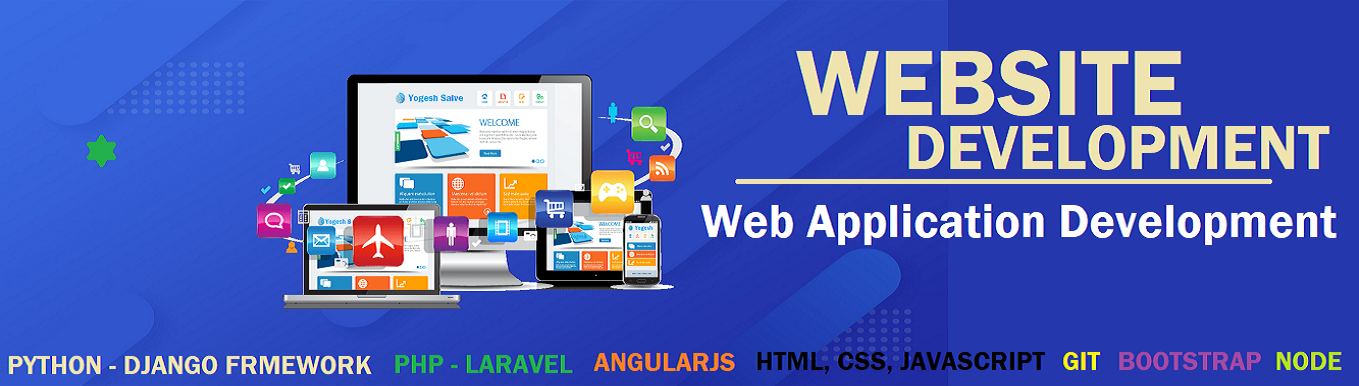
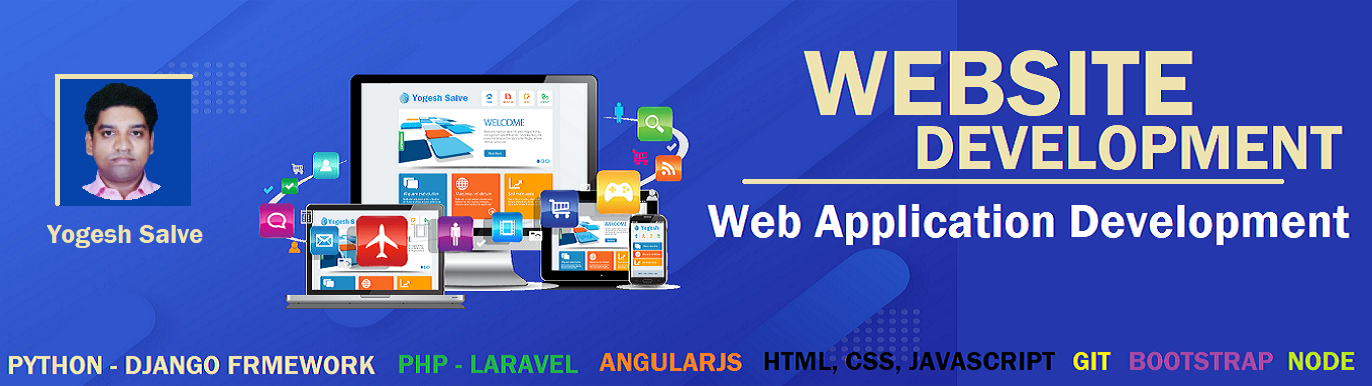
photo added

diff --git a/index.html b/index.html
@@ -52,22 +52,12 @@
   </div>
 </nav>
 
-<div class="bgimg">
-  
-   </div>
-   
-   <div style="background: color url('../img/2.png')"></div>
-
-
-
-<div class="container my-4" >
-    <h1 align="center">.</h1>
-</div>
+<div class="bgimg"></div>
 <div class="container">
 <div class="content">
 <section class="inner-container hero">
-<h1 align="center">
-Hello, my name is Yogesh. I am a Website Designer / Front End Developer living in
+<h1 align="center" style="color:white;">
+Hello, I am a Website Designer / Front End Developer living in
 Navi Mumbai, MH India.
 </h1>
 </section>
@@ -80,7 +70,7 @@ Navi Mumbai, MH India.
 
 <footer class="footer mt-auto py-3">
 <div class="fixed">
-    <span class="text-muted">Place sticky footer content here.</span>
+    <span >Designed & Developed by Yogesh Salve 2020</span>
   </div>
 </footer>
 </body>
@@ -95,10 +85,15 @@ Navi Mumbai, MH India.
 <style type="text/css">
 .bgimg {
     background-image: url('../img/2.png');
-    height: 100vh;
+    height: 65vh;
     /* width: 1500px; */
     background-repeat: no-repeat;
     position: center;
+}
+</style>
+<style>
+body {
+  background-color: #2e79f2;
 }
 </style>
 </html>
